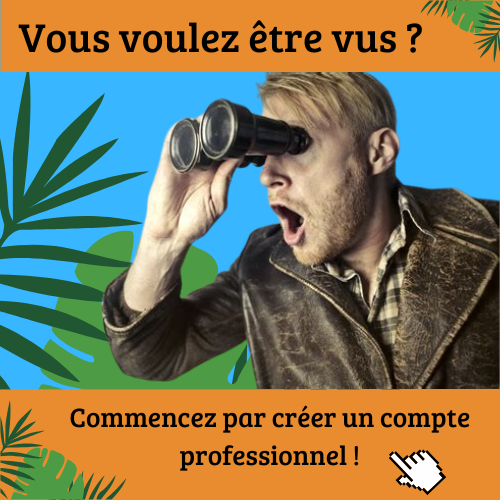
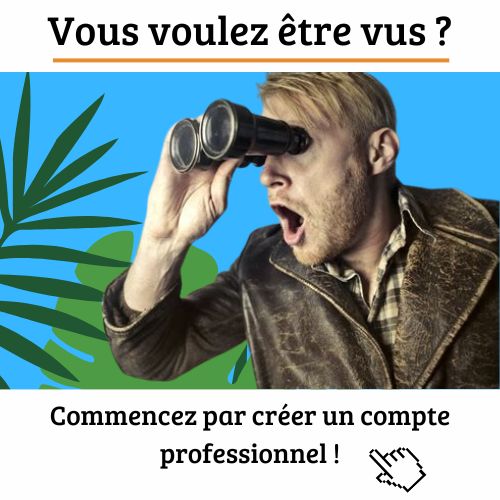
changé images pub

diff --git a/html/js/recherche.js b/html/js/recherche.js
@@ -52,10 +52,10 @@ la valeur de l'information (exemple : "titre" => "Fort la Latte", "prix" => 15)*
         mapTempo.set("visibilite", true);               //indique si l'élément doit être montré par la recherche
         mapTempo.set("element", element);               //l'élément dans le DOM
         mapTempo.set("titre", document.querySelectorAll("#" + element.id + " .apercuOffre h3")[0].textContent);     //titre de l'offre
-        mapTempo.set("categorie", document.querySelector("#" + element.id + " #cat").textContent);
-        mapTempo.set("ville", document.querySelector("#" + element.id + " #ville").textContent);
-        mapTempo.set("adresse", document.querySelector("#" + element.id + " #adresse").textContent);
-        mapTempo.set("note", parseFloat(document.querySelector("#" + element.id + " #note").textContent));
+        mapTempo.set("categorie", document.querySelector("#" + element.id + " .cat").textContent);
+        mapTempo.set("ville", document.querySelector("#" + element.id + " .ville").textContent);
+        mapTempo.set("adresse", document.querySelector("#" + element.id + " .adresse").textContent);
+        mapTempo.set("note", parseFloat(document.querySelector("#" + element.id + " .note").textContent));
         // mapTempo.set("date", document.querySelector("#" + element.id + " #date").textContent);
 
         // Récupérer les données des tags

diff --git a/html/js/apparitionOffres.js b/html/js/apparitionOffres.js
@@ -1,4 +1,3 @@
-console.log("cc")
 let observer = new IntersectionObserver((entries) => {
     entries.forEach(entry => {
         if(entry.isIntersecting){

diff --git a/html/style/style.css b/html/style/style.css
@@ -2569,6 +2569,7 @@ aside fieldset {
     border-radius: 5px;
     border-radius: 5px;
     padding: 10px;
+    box-shadow: var(--ombreVisiteur);
 } 
 
 

diff --git a/html/pages/accueil.php b/html/pages/accueil.php
@@ -162,7 +162,7 @@ $nouvellesOffres = $stmt->fetchAll();
                         <div class="card-body">
                             <a href="/pages/CreaComptePro.php?user-tempo=pro" class="grossisQuandHover">
                                 <article>
-                                    <img src="/images/banniere/pubBanniere<?php echo rand(1, 3); ?>.png" alt="pubBanniere" class="pubBanniere">
+                                    <img src="/images/banniere/pubBanniere1<?php echo rand(1, 3); ?>.png" alt="pubBanniere" class="pubBanniere">
                                 </article>
                             </a>
                         </div>
